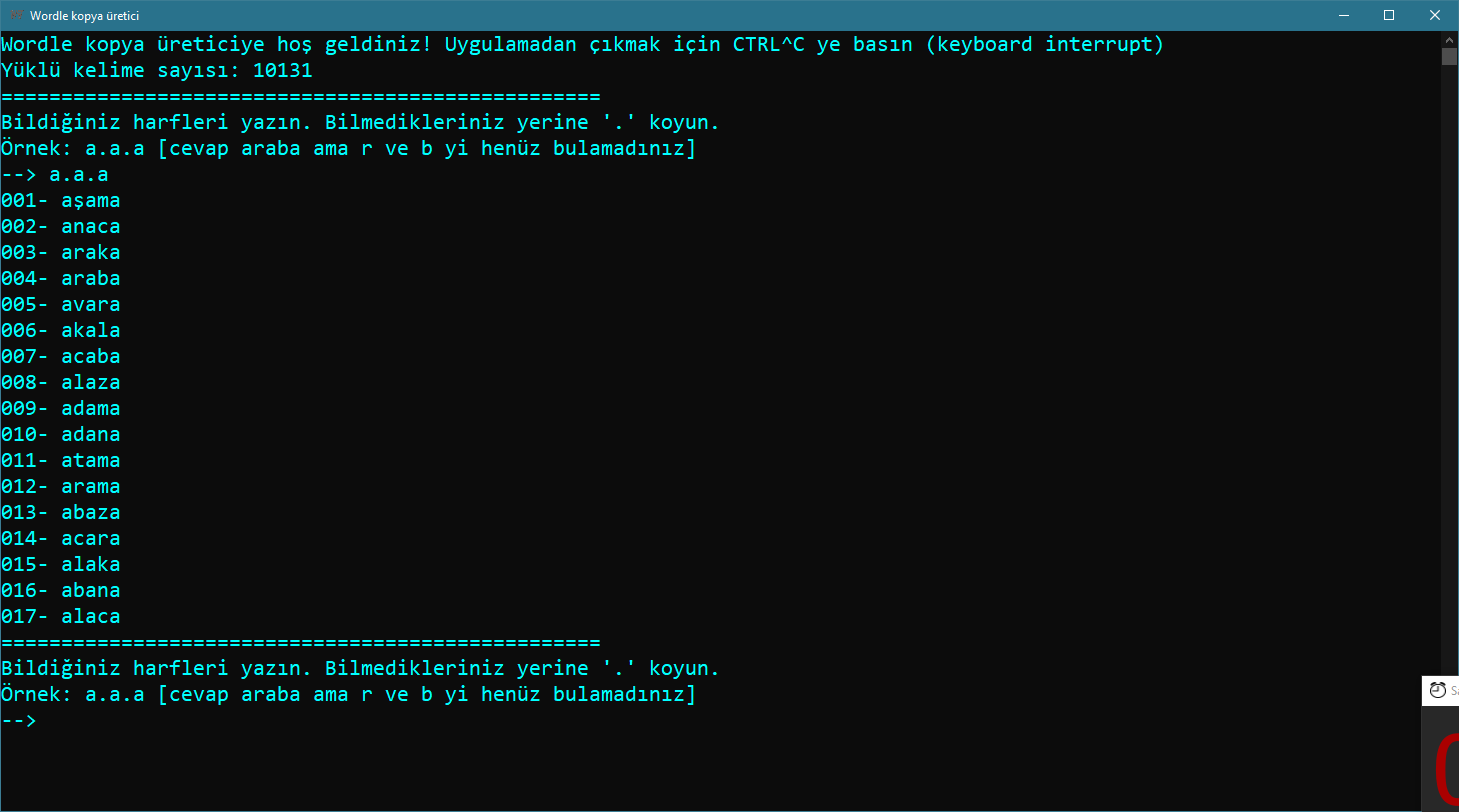
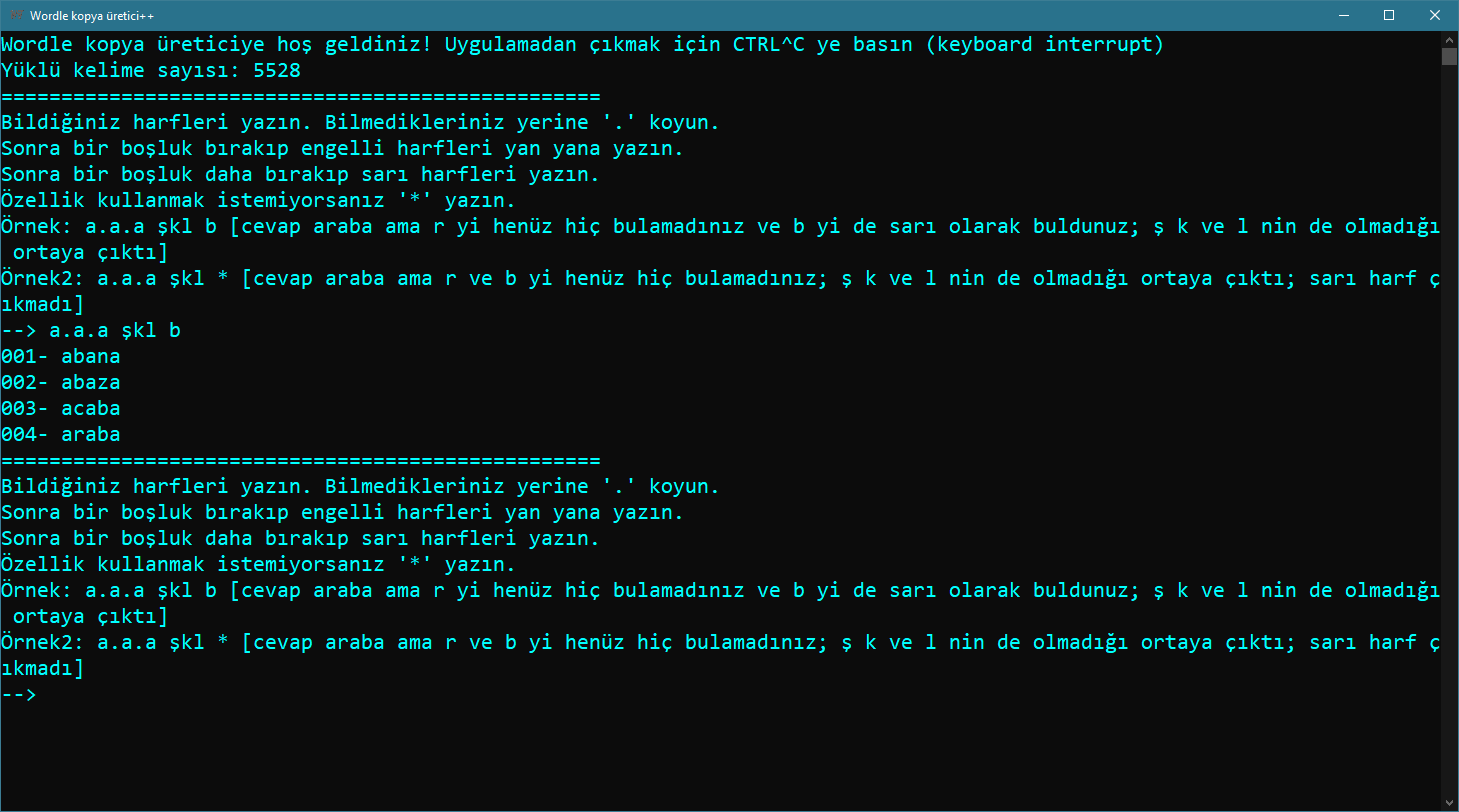
update readme
added images, updated images to current version

diff --git a/README.md b/README.md
@@ -13,5 +13,7 @@ Wordle için hile uygulaması
 
 ![ss](./ss.png)
 
+![ss](./ss2.png) 
+
 </div>
 
